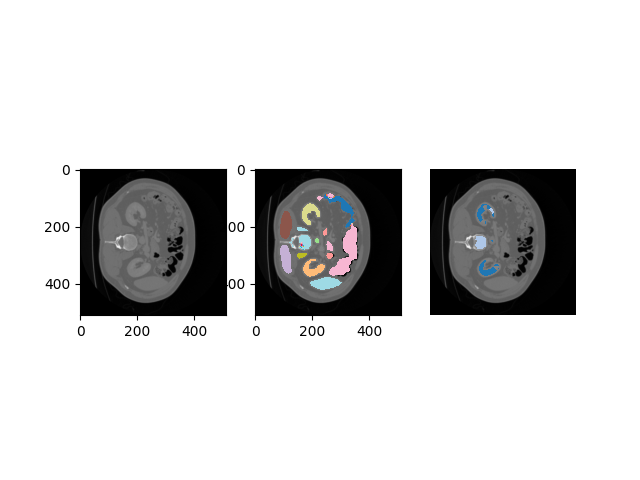
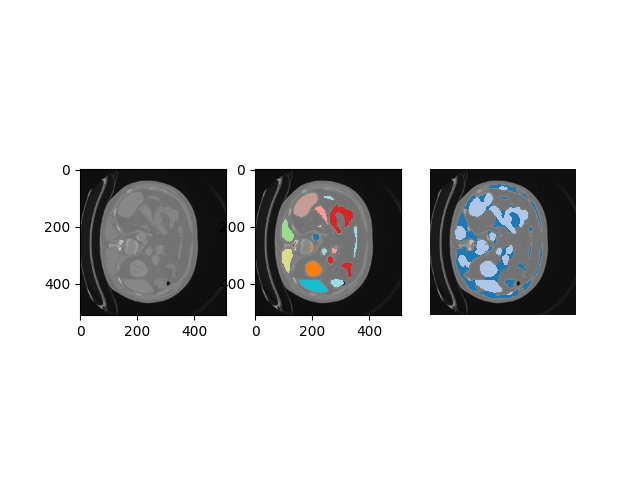
add run

diff --git a/code/train.py b/code/train.py
@@ -1,5 +1,6 @@
 import json 
 import os.path
+import os
 from itertools import chain
 import random 
 import torch
@@ -34,6 +35,7 @@ class Trainer():
         self.fold = fold
         self.logger = logger
         self.dict_record = {'epoch' : {}}
+        self.save_img_path = os.path.join(args.runs_dir, args.experiment_name + args.save, "images/")
         
         self.meanshift = MeanShiftCluster()
         self.init_optim()
@@ -53,7 +55,7 @@ class Trainer():
 
         for epoch in range(self.args.epochs):
             train_loss = self.train_epoch(epoch)
-            val_loss = self.val_epoch()
+            val_loss = self.val_epoch(epoch)
 
             self.writer.add_scalar('training_loss_fold'+str(self.fold), 
                                    train_loss, epoch)
@@ -72,7 +74,7 @@ class Trainer():
                                 #  val_dice=val_metric
                                  ))
             
-            self.logger.print(self.metric.summary())
+            print(self.metric.summary())
             self.dict_record['epoch'][epoch] = {
                     'train_loss': train_loss, 
                     'val_loss ': val_loss,
@@ -100,7 +102,7 @@ class Trainer():
             # torch.save(save_dict, os.path.join(
             #     self.args.model_result_dir, "latest.pth"))
 
-    def val_epoch(self):
+    def val_epoch(self, epoch):
         self.model.eval()
         self.metric.reset_val()
         with torch.no_grad():
@@ -118,11 +120,14 @@ class Trainer():
                 label = rearrange(label.squeeze(1), 'b h w -> b (h w)')
                 self.metric.add_val(seg.detach().cpu(), label.detach().cpu())
 
-        self.visualize_seg(type="val")    
+        self.visualize_seg(epoch=epoch, type="val")    
         return loss 
 
 
     def visualize_seg(self, epoch=0, type="train"):
+        
+        if not os.path.exists(self.save_img_path):
+            os.makedirs(self.save_img_path)
         if type == "train":
             data_loader = self.train_loader
         elif type == "val":
@@ -132,21 +137,27 @@ class Trainer():
             img, label, keypoints = next(iter(data_loader))  # Example: get first batch
             img = img.float().to(self.args.device)
             label = label.float().to(self.args.device)
-            label_logits, _ = self.model(img, keypoints)
             keypoints = keypoints.float().to(self.args.device)
+            label_logits, _ = self.model(img, keypoints)
             # Assume meanshift or similar method is used to get seg from label_logits
             seg = self.meanshift(label_logits).cpu().numpy()
             
             # 
+		
+            img = img[0].squeeze(0).cpu().numpy()
+            label = label[0].cpu().numpy()
+            seg = seg[0]
+            print("shape i s l", img.shape, seg.shape, label.shape)
             fig, axes = plt.subplots(1, 3)
             axes[0].imshow(img, cmap="gray")
             axes[1].imshow(img, cmap="gray")
             axes[2].imshow(img, cmap="gray")
             seg_masked = np.ma.masked_where(seg.reshape((512,512)) == 0, (seg.reshape((512,512))))
             label_masked = np.ma.masked_where(label.reshape((512,512)) == 0, (label.reshape((512,512))))
-            axes[1].imshow(seg_masked, cmap="tab20")
+            axes[1].imshow(label_masked, cmap="tab20")
             axes[2].imshow(seg_masked, cmap="tab20")
             plt.axis("off")
+            plt.savefig(os.path.join(self.save_img_path, f"epoch-{epoch}_{type}.png"))  
 
               # Make a grid with 3 images in a row
             # # Visualize the first sample of the batch
